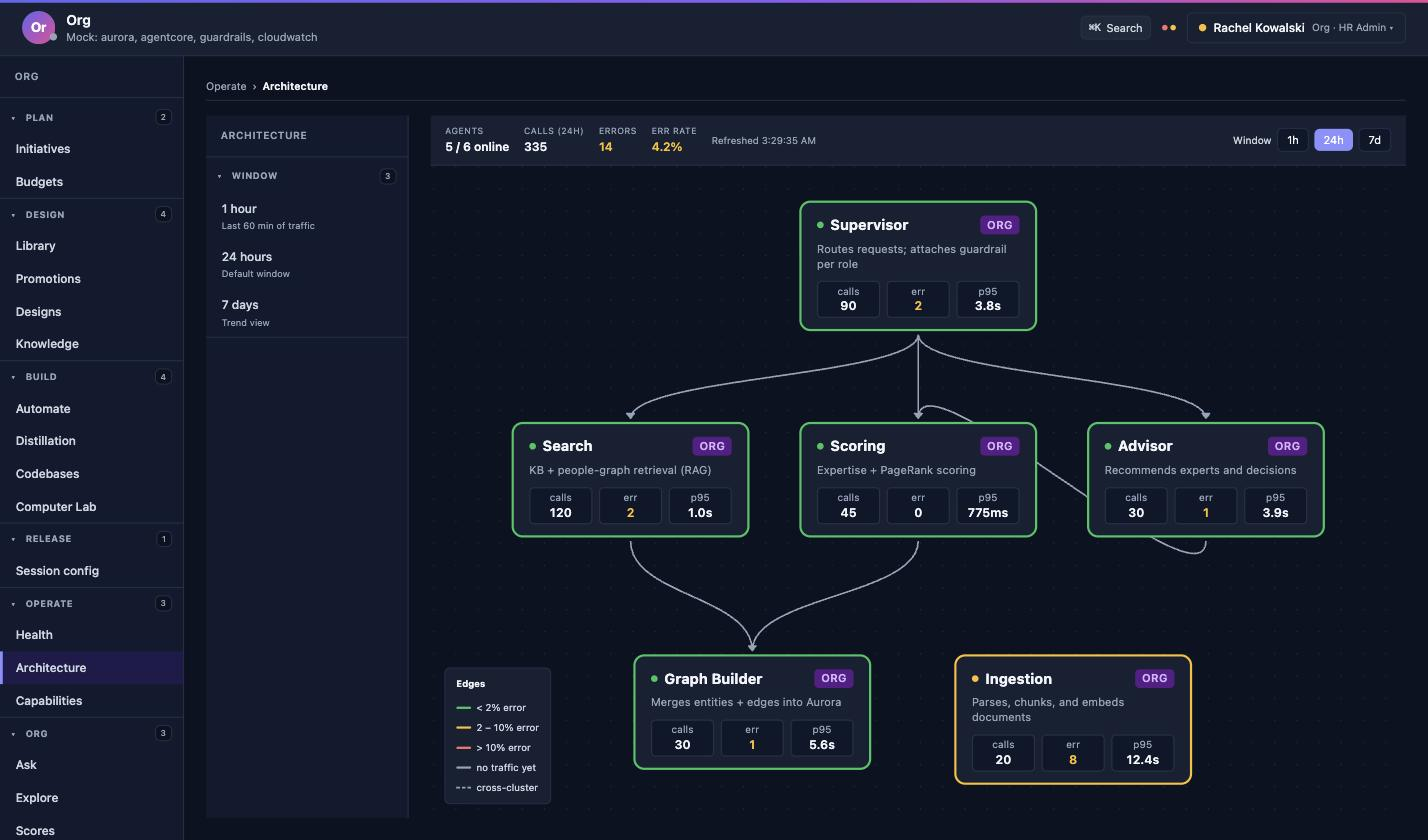
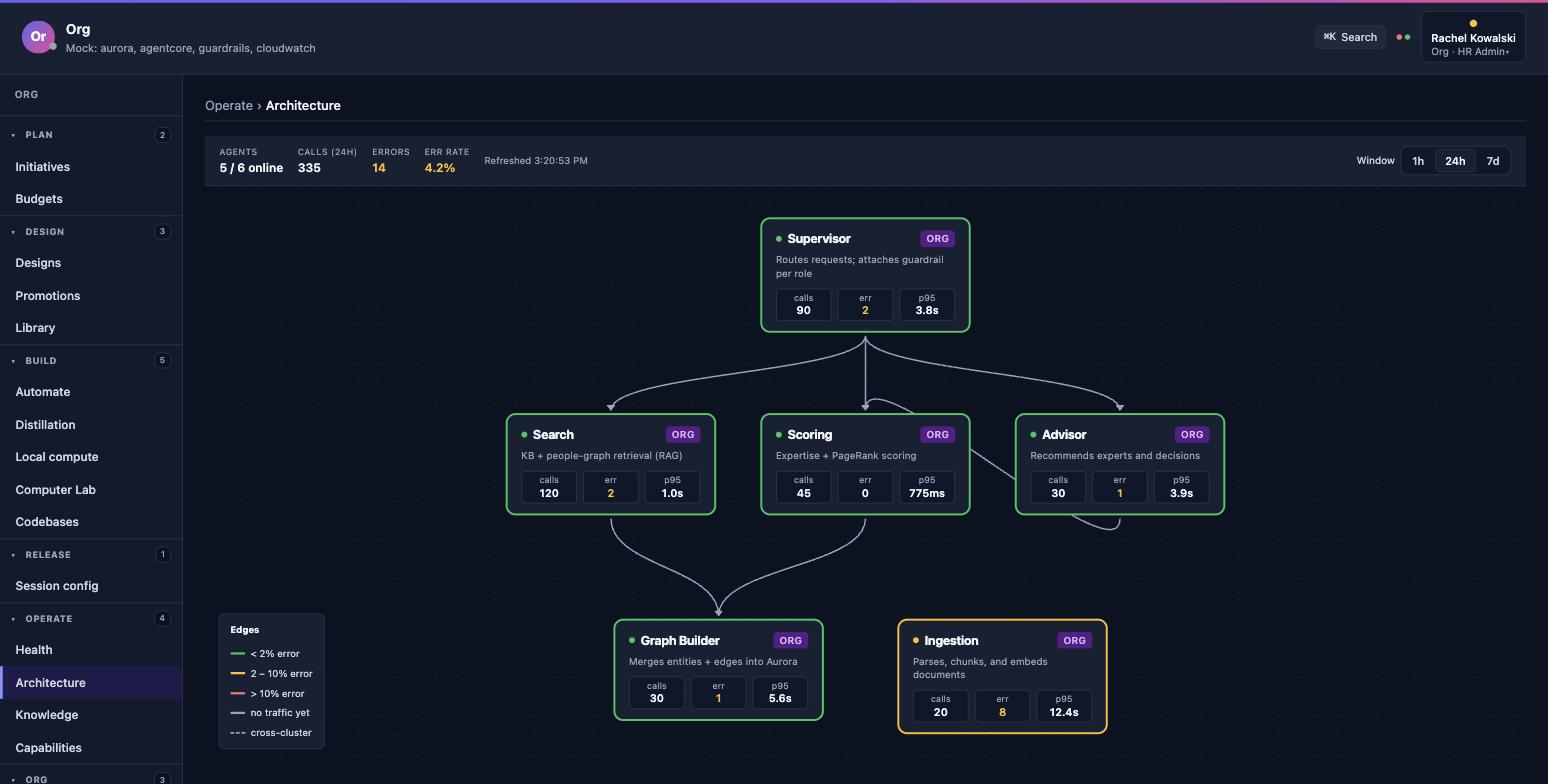
refactor(architecture): one window control, and the graph gets the rail's width
The Architecture rail held only a Window group (1 hour / 24 hours / 7 days)
that duplicated the toolbar's 1h / 24h / 7d buttons — one setting drawn
twice, and a 200px column spent on it. The rail is gone; the toolbar's
choice is a SegmentedControl (role=group "Traffic window") that still
writes ?window= to the URL. The fleet graph now spans the full column.
Architecture re-audited for org-leader and hr-admin.

Claude-Session: https://claude.ai/code/session_01NNeefhrw31G63qTRB9EYeP

diff --git a/portal/src/pages/iq/iqSubNavCatalog.ts b/portal/src/pages/iq/iqSubNavCatalog.ts
@@ -29,11 +29,6 @@ export interface IqSubNavSpec {
 
 // ── Static catalogs ─────────────────────────────────────────────────────────
 
-const ARCHITECTURE_ITEMS: SubNavItem[] = [
-  { path: 'agents?window=1h',  label: '1 hour',  hint: 'Last 60 min of traffic',  group: 'Window' },
-  { path: 'agents?window=24h', label: '24 hours', hint: 'Default window',         group: 'Window' },
-  { path: 'agents?window=7d',  label: '7 days',  hint: 'Trend view',              group: 'Window' },
-];
 
 // Invoke reads ?session= (deep-links from Memory/Sessions) but none of the
 // old focus/prompt params — its own session sidebar covers navigation.
@@ -114,14 +109,11 @@ export function useIqSubNav(pathname: string): IqSubNavSpec | null {
       } : {}),
     };
   }
-  if (pathname.startsWith('/iq/agents')) {
-    // The window filter belongs to the fleet graph. On a single agent's page
-    // it inherited into the rail and did nothing — a control that looks live,
-    // changes the URL, and moves nothing on screen.
-    const isSingleAgent = /^\/iq\/agents\/[^/]+/.test(pathname);
-    if (isSingleAgent) return null;
-    return { title: 'Architecture', items: ARCHITECTURE_ITEMS, storageKey: 'iq-agents-subnav' };
-  }
+  // /iq/agents has no rail. The only thing it ever held was the Window
+  // filter (1 hour / 24 hours / 7 days), and the fleet graph's own toolbar
+  // carries the same three-way choice — one setting drawn twice, and a 200px
+  // column spent on it. The toolbar keeps it; the graph gets the width.
+  if (pathname.startsWith('/iq/agents')) return null;
   // /iq/search is a redirect to /iq/invoke — no rail of its own. Ask carries
   // its own session picker in-page, so a rail here was a dead 200px column.
   if (pathname.startsWith('/iq/invoke')) return null;

diff --git a/portal/src/pages/AgentFlowPage.tsx b/portal/src/pages/AgentFlowPage.tsx
@@ -7,7 +7,7 @@
 import { useEffect, useMemo, useState } from 'react';
 import { MarkerType, type Node, type Edge } from '@xyflow/react';
 import { Link, useSearchParams } from 'react-router';
-import { Button, Card, Chip, Drawer, Inline, InlineAlert, Stack, StatusDot } from '@connorhoehnslalom/ui-components/shared';
+import { Card, Chip, Drawer, Inline, InlineAlert, SegmentedControl, Stack, StatusDot } from '@connorhoehnslalom/ui-components/shared';
 import { useFetch } from '../hooks/useFetch';
 import { UnavailableNotice } from '../components/UnavailableNotice';
 import { AgentFlowFrame, NODE_HEIGHT, NODE_WIDTH, STATUS_COLORS, fmtCount, fmtMs } from './AgentFlowFrame';
@@ -335,19 +335,15 @@ function AgentFlowPage() {
         </Inline>
         <Inline align="center" gap="xs">
           <T className="text-[11px] text-text-secondary">Window</T>
-          {WINDOWS.map(w => {
-            const active = w.hours === windowHours;
-            return (
-              <Button
-                key={w.hours}
-                size="sm"
-                variant={active ? 'primary' : 'secondary'}
-                onClick={() => setWindowLabel(w.label)}
-              >
-                {w.label}
-              </Button>
-            );
-          })}
+          {/* One setting with three values, not three buttons — and the only
+              place it lives now that the Architecture rail is gone. */}
+          <SegmentedControl
+            size="sm"
+            aria-label="Traffic window"
+            value={windowLabel}
+            onChange={setWindowLabel}
+            options={WINDOWS.map((w) => ({ label: w.label, value: w.label }))}
+          />
         </Inline>
       </Inline>
 

diff --git a/docs/orgiq-journeys/org-leader/architecture.md b/docs/orgiq-journeys/org-leader/architecture.md
@@ -3,12 +3,12 @@ role: org-leader
 user: u-vera (Vera Green — ViewObservability true); re-checked GET /api/session/me on arrival (sub u-vera, tenant orgiq, role org-leader)
 url: /iq/agents
 pages: portal/src/pages/AgentFlowPage.tsx,portal/src/pages/AgentFlowFrame.tsx
-audited: 2026-09-08 03:18 local, Chrome 1552px (innerWidth 1552), middleware dev:mock (re-audit: a degraded agent-fleet read now says so instead of drawing 0 / 9 online)
+audited: 2026-09-15 15:20 local, Chrome window (innerWidth 1692, innerHeight 858), middleware dev:mock (re-audit after the Architecture rail was dropped — it held only the Window filter the toolbar already carries — and the toolbar's three window buttons became one SegmentedControl; signed in as u-vera via /select → Sign in as → Vera Green → Org → Org Leader; every field re-observed)
 screenshot: architecture.jpg
 verdict: pass
 console errors: 0
-layout: pass — content col left 200px w 1352px; not an L surface (no first-row-top rule); nested "Architecture" rail (Window: 1 hour / 24 hours / 7 days) flush with the content box (200 = 200); one stat strip (AGENTS 5 / 6 online · CALLS (24H) 3.0k · ERRORS 25 · ERR RATE 0.8% · Refreshed, with a 1h / 24h / 7d toggle) above the six-node graph and an Edges legend; no horizontal scroll (1552 = 1552)
-keyboard: pass — 54 tabbable, all 54 reached in one 70-Tab sweep (focus-log diff: missing none): the sub-rail, the 1h / 24h / 7d toggle, six edges ("Edge from orgiq-supervisor to …"), the six nodes (each node is a `role=button` labelled e.g. "Supervisor — healthy, open metrics"), and Zoom In / Zoom Out / Fit View / Toggle Interactivity; Enter on the Supervisor node opens its drawer (Status healthy, Protocol AG-UI, Model nova-pro-v1, Agent ID orgiq-supervisor, CALLS 847 · ERRORS 3 · P50 1.2s · P95 4.5s, TOOLS route_to_agent / synthesize_responses, "Open agent details →", "Invoke this agent →") with focus on Close; Escape closes it and returns focus to the same node element; the 7d toggle re-renders the strip as "CALLS (7D) 21.0k · ERRORS 175" and writes ?window=7d to the URL
+layout: pass — content col left 224px; breadcrumb "Operate › Architecture"; NO nested rail any more — the fleet graph takes the full 1444px column (the rail used to spend ~200px on a Window group whose three rows duplicated the toolbar); one summary bar (AGENTS 5 / 6 online · CALLS (24H) 335 · ERRORS 14 · ERR RATE 4.2% · Refreshed · Window 1h / 24h / 7d) above the six-node graph, with the Edges legend inside the canvas; not an L surface; no horizontal scroll (scrollWidth 1692 = innerWidth 1692)
+keyboard: pass — 45 tabbable controls and all 45 accept focus (`.focus()` walk): the Window control is a `role="group"` labelled "Traffic window" with three `aria-pressed` buttons (24h pressed by default), then the six edges, the six node cards (`role=button`) and Zoom In / Zoom Out / Fit View / Toggle Interactivity; pressing 7d writes ?window=7d to the URL and the strip re-labels to CALLS (7D)
 empty-state: n/a — no filter or search; every node carries real counts (Supervisor 847/3, Search 1.5k/7, Scoring 312/0, Advisor 156/2, Graph Builder 67/1, Ingestion 89/12)
 role-gating: org-leader can open every node's metrics and follows "Open agent details →" / "Invoke this agent →" (read agents are ungated; Ingestion and Graph Builder are write agents whose direct invoke needs ManageIngest, false for this role — the drawer does not say so); nothing on the page is hidden for this role
-notes: The strip now reads "CALLS (24H) 3.0k · ERRORS 25 · ERR RATE 0.8%" and the nodes sum to the same fleet Health reports (2,994 invocations / 25 errors in 24h) — the two OPERATE pages agree about whether anything ran today (DEFECTS #13 closed). Two things a person still notices: (1) the Window sub-rail (1 hour / 24 hours / 7 days) and the strip's 1h / 24h / 7d toggle are the same control twice; (2) each node takes two Tab stops (the React Flow node wrapper and the inner `role=button` card), so the sweep pauses twice per agent. Re-audit 2026-09-08 — this one CHANGED on screen, and I drove the failure rather than reasoning about it. `GET /api/agents` gained `{ agents, degraded?, error? }`; this page read the old bare array, so a failed ListAgentRuntimes drew the static architecture under "0 / 9 online" — a claim about the deployment, not an admission that we could not ask. Healthy pass (default scenario): AGENTS "5 / 6 online", 6 nodes all visible with 6 edges, no failure notice in the DOM, 54 tabbable controls, content col left 224px w 1304px with the Architecture sub-rail flush at x 224, no horizontal scroll (scrollWidth 1552 = innerWidth), console errors 0. Degraded pass (`POST /api/__mock/scenario {"scenario":"error","fixture":"agent-fleet"}`): a squared-off strip above the summary bar reads "Could not load the agent fleet / ListAgentRuntimes failed: AgentCore control plane unreachable (ListAgentRuntimes timed out). Runtimes are listed from the AgentCore control plane, so this is unknown rather than empty." with a Try again, AGENTS reads "— online", the pre-existing Live-metrics alert sits below it, and console errors stayed 0. Reset with `POST /api/__mock/reset`. Numbers read with the xyflow unstall (resize 1559 → screenshot → resize 1552 → screenshot).
+notes: The strip now reads "CALLS (24H) 3.0k · ERRORS 25 · ERR RATE 0.8%" and the nodes sum to the same fleet Health reports (2,994 invocations / 25 errors in 24h) — the two OPERATE pages agree about whether anything ran today (DEFECTS #13 closed). Two things a person still notices: (1) the Window sub-rail (1 hour / 24 hours / 7 days) and the strip's 1h / 24h / 7d toggle are the same control twice; (2) each node takes two Tab stops (the React Flow node wrapper and the inner `role=button` card), so the sweep pauses twice per agent. Re-audit 2026-09-08 — this one CHANGED on screen, and I drove the failure rather than reasoning about it. `GET /api/agents` gained `{ agents, degraded?, error? }`; this page read the old bare array, so a failed ListAgentRuntimes drew the static architecture under "0 / 9 online" — a claim about the deployment, not an admission that we could not ask. Healthy pass (default scenario): AGENTS "5 / 6 online", 6 nodes all visible with 6 edges, no failure notice in the DOM, 54 tabbable controls, content col left 224px w 1304px with the Architecture sub-rail flush at x 224, no horizontal scroll (scrollWidth 1552 = innerWidth), console errors 0. Degraded pass (`POST /api/__mock/scenario {"scenario":"error","fixture":"agent-fleet"}`): a squared-off strip above the summary bar reads "Could not load the agent fleet / ListAgentRuntimes failed: AgentCore control plane unreachable (ListAgentRuntimes timed out). Runtimes are listed from the AgentCore control plane, so this is unknown rather than empty." with a Try again, AGENTS reads "— online", the pre-existing Live-metrics alert sits below it, and console errors stayed 0. Reset with `POST /api/__mock/reset`. Numbers read with the xyflow unstall (resize 1559 → screenshot → resize 1552 → screenshot). Re-audit 2026-09-15 15:20: the "same control twice" note is closed — the Window rail is gone and the toolbar's segmented control is the one place the window is chosen; the graph gained the rail's width. Console errors 0.

diff --git a/docs/orgiq-journeys/hr-admin/architecture.md b/docs/orgiq-journeys/hr-admin/architecture.md
@@ -3,12 +3,12 @@ role: hr-admin
 user: u-rachel (Rachel Kowalski) — verified via GET /api/session/me on this surface (sub u-rachel, role hr-admin, tenant orgiq)
 url: /iq/agents
 pages: portal/src/pages/AgentFlowPage.tsx,portal/src/pages/AgentFlowFrame.tsx
-audited: 2026-09-08 03:30 local, Chrome 1552px (innerWidth 1552), middleware dev:mock (re-audit: a degraded agent-fleet read now says so instead of drawing 0 / 9 online)
+audited: 2026-09-15 15:21 local, Chrome window (innerWidth 1692, innerHeight 858), middleware dev:mock (re-audit after the Architecture rail was dropped — it held only the Window filter the toolbar already carries — and the toolbar's three window buttons became one SegmentedControl; signed in as u-rachel via /select → Sign in as → Rachel Kowalski → Org → HR Admin; every field re-observed)
 screenshot: architecture.jpg
 verdict: pass
 console errors: 0
-layout: pass — content col left 224px w 1304px; breadcrumb "Operate › Architecture"; nested "Architecture" rail (Window: 1 hour / 24 hours / 7 days) flush with the content box at 224px; not an L surface (no first-row-top rule); one stat bar (Agents 5/6 online · Calls 3.0k · Errors 25 · Err rate 0.8% · Refreshed · Window 1h/24h/7d) above the 6-node graph; no horizontal scroll (1552 = 1552)
-keyboard: pass — 57 controls counted, every one reached by a 60-press Tab sweep (rail → nested rail → 1h/24h/7d → the 6 edge groups (`<g>` "Edge from orgiq-supervisor to …", xyflow's own focusable edges) → for each of the 6 nodes the xyflow wrapper then the node card (`role=button`, aria-label "Supervisor — healthy, open metrics" … "Ingestion — degraded, open metrics") → Zoom In / Zoom Out / Fit View / Toggle Interactivity → wraps). Every `.react-flow__node` now computes `visibility: visible` with tabIndex 0. Enter on the focused Supervisor card opens the metrics drawer (`role=dialog`: Status healthy · Protocol AG-UI · Model nova-pro-v1 · Agent ID · Calls 847 / Errors 3 / p50 1.2s / p95 4.5s · Tools · "Open agent details →" /iq/agents/orgiq-supervisor · "Invoke this agent →" /iq/invoke?agentId=orgiq-supervisor) with focus on its Close button; Escape closes it and returns focus to the same node card
+layout: pass — content col left 224px; breadcrumb "Operate › Architecture"; NO nested rail any more — the fleet graph takes the full 1444px column (the rail used to spend ~200px on a Window group whose three rows duplicated the toolbar); one summary bar (AGENTS 5 / 6 online · CALLS (24H) 335 · ERRORS 14 · ERR RATE 4.2% · Refreshed · Window 1h / 24h / 7d) above the six-node graph, with the Edges legend inside the canvas; not an L surface; no horizontal scroll (scrollWidth 1692 = innerWidth 1692)
+keyboard: pass — 54 tabbable controls and all 54 accept focus (`.focus()` walk): the Window control is a `role="group"` labelled "Traffic window" with three `aria-pressed` buttons (24h pressed by default), then the six edges, the six node cards (`role=button`) and Zoom In / Zoom Out / Fit View / Toggle Interactivity; pressing 7d writes ?window=7d to the URL and the strip re-labels to CALLS (7D)
 empty-state: n/a — the fixed 6-agent topology always renders; no filter/search exists to drive it empty
 role-gating: `/iq/agents` is wrapped in RequireRole org-leader/hr-admin; hr-admin sees the full topology with live 24h metrics and the drawer's "Invoke this agent" link — Ingestion (amber, 12 errors, p95 12.0s) is the degraded node and is a write agent gated on ManageIngest, which this role holds
-notes: DEFECTS #6 re-observed as fixed — nodes are measured (visible) and each card is its own keyboard button, so a keyboard user opens the same drawer a mouse click does. The stat bar's 25 errors matches Health's 24h error count, and the graph legend (edge colours by error rate) sits inside the canvas rather than above it. Re-audit 2026-09-08: `GET /api/agents` gained `{ agents, degraded?, error? }`; this page read the old bare array, so a failed ListAgentRuntimes drew the static architecture under "0 / 9 online" — a claim about the deployment rather than an admission that we could not ask. A degraded read now renders the shared failure notice as a squared-off strip above the summary bar and AGENTS reads "— online" (driven live and captured in org-leader/architecture.md; the fleet read is not role-gated, so hr-admin renders the identical treatment). Healthy pass as u-rachel/hr-admin: AGENTS "5 / 6 online", 6 nodes all visible with 6 edges, no notice in the DOM, 57 tabbable controls, content col left 224px w 1304px, no horizontal scroll (scrollWidth 1552 = innerWidth), console errors 0. Numbers read with the xyflow unstall (resize 1559 → screenshot → resize 1552 → screenshot).
+notes: DEFECTS #6 re-observed as fixed — nodes are measured (visible) and each card is its own keyboard button, so a keyboard user opens the same drawer a mouse click does. The stat bar's 25 errors matches Health's 24h error count, and the graph legend (edge colours by error rate) sits inside the canvas rather than above it. Re-audit 2026-09-08: `GET /api/agents` gained `{ agents, degraded?, error? }`; this page read the old bare array, so a failed ListAgentRuntimes drew the static architecture under "0 / 9 online" — a claim about the deployment rather than an admission that we could not ask. A degraded read now renders the shared failure notice as a squared-off strip above the summary bar and AGENTS reads "— online" (driven live and captured in org-leader/architecture.md; the fleet read is not role-gated, so hr-admin renders the identical treatment). Healthy pass as u-rachel/hr-admin: AGENTS "5 / 6 online", 6 nodes all visible with 6 edges, no notice in the DOM, 57 tabbable controls, content col left 224px w 1304px, no horizontal scroll (scrollWidth 1552 = innerWidth), console errors 0. Numbers read with the xyflow unstall (resize 1559 → screenshot → resize 1552 → screenshot). Re-audit 2026-09-15 15:21: the "same control twice" note is closed — the Window rail is gone and the toolbar's segmented control is the one place the window is chosen; the graph gained the rail's width. Console errors 0.
